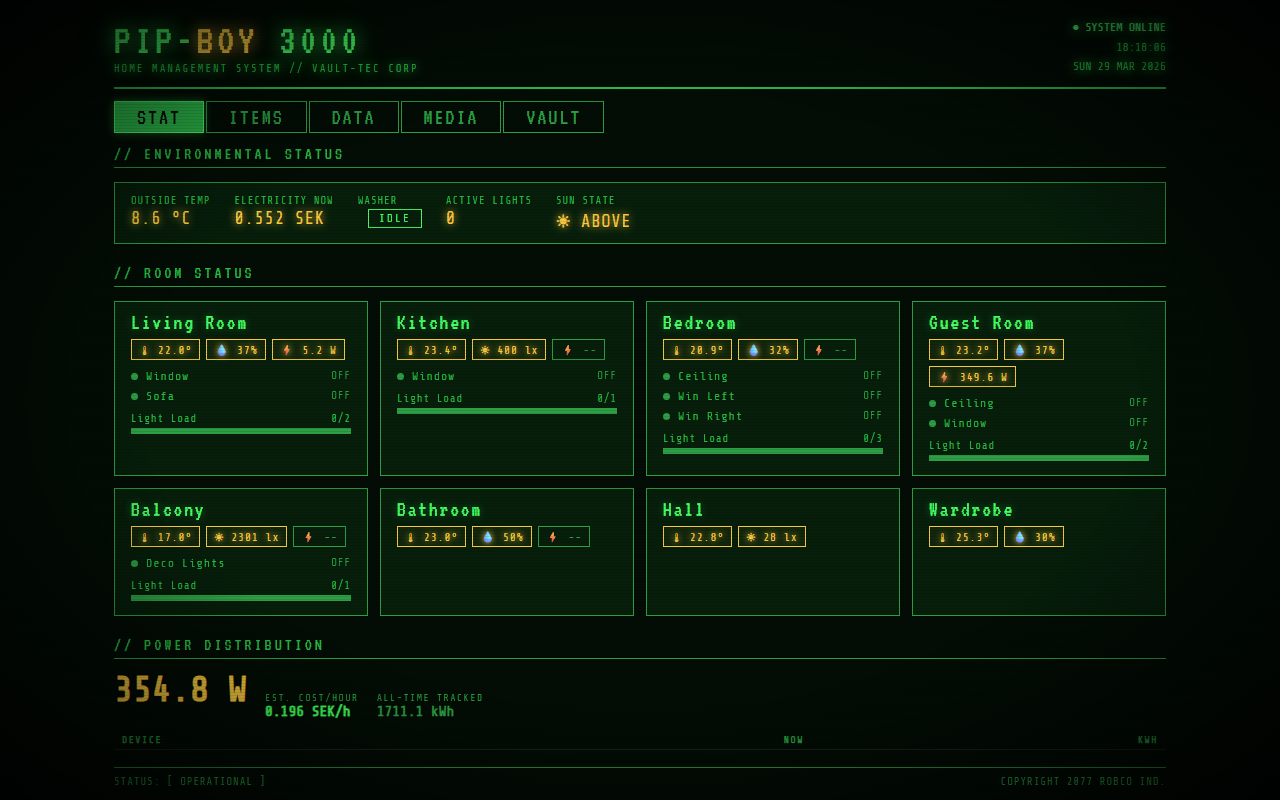
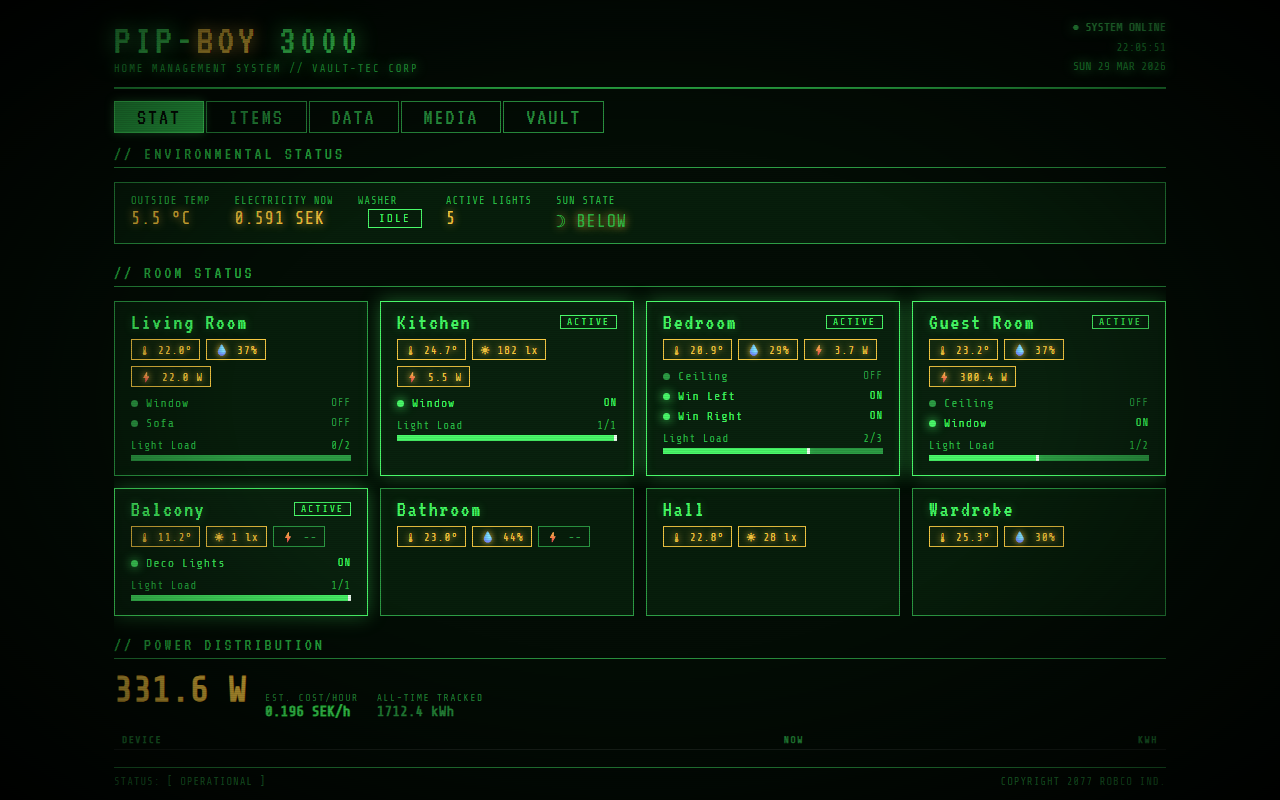
Add mobile responsiveness, theme previews, retake all screenshots
- Injected responsive CSS from shared.js (all themes get it automatically):
  room grid stacks single-column, tabs scroll horizontally, sidebar hides,
  weather cards scroll, status bar wraps — at 768px and 480px breakpoints
- Setup wizard: improved room auto-detection using friendly_name with
  fallback to common room word patterns (livingroom, bedroom, etc.)
- Setup wizard: added theme preview gallery on step 1 showing all 7
  dashboard screenshots so new users can see what they're getting
- Retook all 14 screenshots (7 systems PNGs + 7 demo GIFs) with current
  dashboard state
- Added capture-screenshots.py tool for reproducible PNG generation
- Removed redundant single-theme retake scripts

diff --git a/tools/setup.html b/tools/setup.html
@@ -88,6 +88,13 @@
     font-family: 'Consolas', monospace; font-size: 0.8rem; white-space: pre-wrap; overflow-x: auto;
     max-height: 500px; overflow-y: auto; line-height: 1.4; color: #ccc; }
   .copy-row { display: flex; gap: 8px; margin-top: 12px; }
+
+  /* Theme gallery */
+  .theme-gallery { display: grid; grid-template-columns: repeat(auto-fill, minmax(160px, 1fr)); gap: 10px; }
+  .theme-thumb { background: #222; border: 1px solid #333; border-radius: 6px; overflow: hidden; text-align: center; transition: border-color 0.2s; }
+  .theme-thumb:hover { border-color: #00E000; }
+  .theme-thumb img { width: 100%; height: auto; display: block; }
+  .theme-thumb span { display: block; padding: 6px; font-size: 0.75rem; color: #aaa; letter-spacing: 1px; }
 </style>
 </head>
 <body>
@@ -115,6 +122,17 @@
     <div id="conn-status"></div>
     <div class="btn-row">
       <button class="btn btn-primary" onclick="connectHA()">Connect</button>
+    </div>
+    <h3 style="margin-top:28px">Available Themes</h3>
+    <p style="font-size:0.8rem;color:#666;margin-bottom:12px">After setup, pick any theme — they all share the same entities.js config.</p>
+    <div class="theme-gallery">
+      <div class="theme-thumb"><img src="../screenshots/lcars-systems.png" alt="LCARS"><span>LCARS</span></div>
+      <div class="theme-thumb"><img src="../screenshots/pipboy-systems.png" alt="Pip-Boy"><span>Pip-Boy</span></div>
+      <div class="theme-thumb"><img src="../screenshots/c64-systems.png" alt="C64"><span>C64</span></div>
+      <div class="theme-thumb"><img src="../screenshots/matrix-systems.png" alt="Matrix"><span>Matrix</span></div>
+      <div class="theme-thumb"><img src="../screenshots/weyland-systems.png" alt="Weyland"><span>Weyland</span></div>
+      <div class="theme-thumb"><img src="../screenshots/diablo-systems.png" alt="Diablo"><span>Diablo</span></div>
+      <div class="theme-thumb"><img src="../screenshots/winamp-systems.png" alt="Winamp"><span>Winamp</span></div>
     </div>
   </div>
 
@@ -346,23 +364,41 @@ function guessMediaType(e) {
 }
 
 function autoDetectRooms() {
-  // Group lights by common prefix to infer rooms
+  // Group lights by room, extracted from friendly_name or entity_id
   const roomMap = {};
   lights.forEach(e => {
+    const friendly = e.attributes?.friendly_name || '';
     const id = e.entity_id.replace('light.', '');
-    const name = e.attributes?.friendly_name || id;
-    // Try to extract room from friendly name (e.g. "Living Room Ceiling" -> "Living Room")
-    const parts = name.split(/\s+/);
     let roomName, lightLabel;
-    if (parts.length >= 2) {
-      // Heuristic: last word is the light name, rest is room
+
+    if (friendly && friendly.includes(' ') && friendly.split(/\s+/).length >= 2) {
+      // friendly_name like "Living Room Ceiling" -> room="Living Room", label="Ceiling"
+      const parts = friendly.split(/\s+/);
       lightLabel = parts[parts.length - 1];
       roomName = parts.slice(0, -1).join(' ');
     } else {
-      roomName = name;
-      lightLabel = name;
+      // Fall back to entity_id: split camelCase/underscores, e.g. "livingroomwindow"
+      // Try to find a known room word boundary
+      const cleaned = id.replace(/_/g, '');
+      const roomWords = ['livingroom','kitchen','bedroom','guestbedroom','bathroom','balcony','hall','wardrobe',
+        'office','garage','nursery','den','studio','laundry','closet','attic','basement','patio','garden'];
+      const found = roomWords.find(w => cleaned.toLowerCase().startsWith(w));
+      if (found) {
+        roomName = found.replace(/([a-z])([A-Z])/g, '$1 $2')
+          .replace(/^./, c => c.toUpperCase())
+          .replace('livingroom', 'Living Room').replace('guestbedroom', 'Guest Room')
+          .replace('bedroom', 'Bedroom').replace('bathroom', 'Bathroom');
+        lightLabel = cleaned.slice(found.length) || friendly || id;
+        // Capitalize label
+        lightLabel = lightLabel.replace(/^./, c => c.toUpperCase());
+      } else {
+        // No pattern match — use friendly_name or entity_id as-is
+        roomName = friendly || id;
+        lightLabel = friendly || id;
+      }
     }
-    const roomId = roomName.toLowerCase().replace(/\s+/g, '');
+
+    const roomId = roomName.toLowerCase().replace(/[^a-z0-9]/g, '');
     if (!roomMap[roomId]) roomMap[roomId] = { id: roomId, name: roomName, lights: [], sensors: { temp: null, humidity: null, lux: null }, power: [] };
     const supportsBri = e.attributes?.supported_color_modes?.some(m => m === 'brightness' || m === 'color_temp' || m === 'xy' || m === 'hs' || m === 'rgb');
     roomMap[roomId].lights.push({ id: e.entity_id, label: lightLabel, dimmable: !!supportsBri });

diff --git a/shared.js b/shared.js
@@ -86,6 +86,63 @@ function validateEntities(states) {
 }
 
 // ═══════════════════════════════════════════════════
+// RESPONSIVE CSS (injected so all themes get it)
+// ═══════════════════════════════════════════════════
+(function injectResponsiveCSS() {
+  const style = document.createElement('style');
+  style.textContent = `
+    @media (max-width: 768px) {
+      /* Stack room cards in a single column */
+      .room-grid { grid-template-columns: 1fr !important; }
+
+      /* Make tab bars scrollable */
+      [role="tablist"] {
+        overflow-x: auto; -webkit-overflow-scrolling: touch;
+        flex-wrap: nowrap !important; white-space: nowrap;
+        scrollbar-width: none;
+      }
+      [role="tablist"]::-webkit-scrollbar { display: none; }
+
+      /* Shrink status bar items */
+      .status-bar, .enviro-bar, .env-status {
+        flex-wrap: wrap !important; gap: 6px !important;
+      }
+      .status-block { min-width: 0 !important; flex: 1 1 45% !important; }
+
+      /* Stack power panel for readability */
+      .power-panel table { font-size: 0.7rem; }
+
+      /* Weather cards scroll horizontally */
+      .weather-grid, .forecast-grid {
+        display: flex !important; overflow-x: auto !important;
+        -webkit-overflow-scrolling: touch; gap: 8px !important;
+        flex-wrap: nowrap !important; padding-bottom: 6px;
+      }
+      .weather-card, .forecast-card { min-width: 100px; flex-shrink: 0; }
+
+      /* Sidebar: hide on mobile (use top nav instead) */
+      .lcars-sidebar, .sidebar { display: none !important; }
+      .lcars-main, .main-content { margin-left: 0 !important; }
+
+      /* Nordpool chart: ensure it scrolls */
+      .nordpool-chart, .chart-wrap { overflow-x: auto !important; }
+
+      /* EQ panel: scroll horizontally */
+      .wa-eq-panel { overflow-x: auto !important; flex-wrap: nowrap !important; }
+    }
+
+    @media (max-width: 480px) {
+      /* Even smaller: single-column everything */
+      .room-grid { gap: 8px !important; }
+      .room-card { padding: 10px !important; }
+      .section-title { font-size: 0.75rem !important; }
+      .status-block { flex: 1 1 100% !important; }
+    }
+  `;
+  document.head.appendChild(style);
+})();
+
+// ═══════════════════════════════════════════════════
 // DERIVED CONFIG (auto-built from entities.js)
 // ═══════════════════════════════════════════════════
 const INT = ENTITIES.integrations || {};

diff --git a/tools/capture-screenshots.py b/tools/capture-screenshots.py
@@ -1,0 +1,39 @@
+"""Retake all 7 system screenshots using headless Playwright."""
+import asyncio
+from pathlib import Path
+from playwright.async_api import async_playwright
+
+BASE_URL = "http://localhost:5502"
+SCREENSHOT_DIR = Path(__file__).parent.parent / "screenshots"
+VIEWPORT = {"width": 1280, "height": 800}
+THEMES = {
+    "lcars":   "lcars-dashboard.html",
+    "pipboy":  "pipboy-dashboard.html",
+    "c64":     "c64-dashboard.html",
+    "matrix":  "matrix-dashboard.html",
+    "weyland": "weyland-dashboard.html",
+    "diablo":  "diablo-dashboard.html",
+    "winamp":  "winamp-dashboard.html",
+}
+
+
+async def main():
+    async with async_playwright() as p:
+        browser = await p.chromium.launch()
+        page = await browser.new_page(viewport=VIEWPORT)
+
+        for name, html in THEMES.items():
+            print(f"  {name}...", end=" ")
+            await page.goto(f"{BASE_URL}/{html}", wait_until="networkidle")
+            await page.wait_for_timeout(6000)
+            await page.evaluate("switchTab('systems')")
+            await page.wait_for_timeout(1500)
+            path = SCREENSHOT_DIR / f"{name}-systems.png"
+            await page.screenshot(path=str(path))
+            print(f"{path.stat().st_size // 1024} KB")
+
+        await browser.close()
+    print("Done!")
+
+if __name__ == "__main__":
+    asyncio.run(main())
